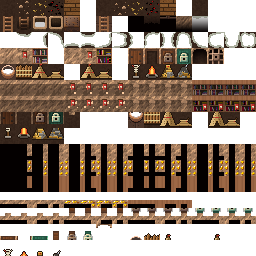
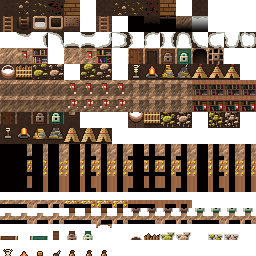
놀 제국: 천막을 긴 풀과 분리(캠프의 천막만 천막 그림·이름, 나머지 풀숲은 원작 그대로), 방책·토템·모닥불·고철 더미 위에 동굴 장식이 겹쳐 그려져 잘려 보이던 문제 수정
Claude-Session: https://claude.ai/code/session_01APSKFNB8xpLfNtbCfNBsyA

diff --git a/core/src/main/java/com/shatteredpixel/shatteredpixeldungeon/levels/GnollEmpireLevel.java b/core/src/main/java/com/shatteredpixel/shatteredpixeldungeon/levels/GnollEmpireLevel.java
@@ -57,6 +57,8 @@ public class GnollEmpireLevel extends CavesLevel {
 
 	//망루 칸 (서 있는 쪽은 시야 +2)
 	public ArrayList<Integer> towers = new ArrayList<>();
+	//천막 칸 (긴 풀 지형, 캠프 방에만 있음)
+	public ArrayList<Integer> tents = new ArrayList<>();
 	//아직 닫혀 있는 요새 성문
 	public ArrayList<Integer> gates = new ArrayList<>();
 	//문지기가 전리품 창고 열쇠를 가지고 있는지, 이미 떨어뜨렸는지
@@ -164,6 +166,7 @@ public class GnollEmpireLevel extends CavesLevel {
 			} else if (r instanceof GnollCampRoom){
 				if (addProp( new WarDrum(), ((GnollCampRoom) r).drum )) drums++;
 				addProp( GnollCage.random(), ((GnollCampRoom) r).cage );
+				tents.addAll( ((GnollCampRoom) r).tents );
 			} else if (r instanceof ScrapWorkshopRoom){
 				for (int c : ((ScrapWorkshopRoom) r).barricades){
 					addProp( new ScrapBarricade(), c );
@@ -392,6 +395,7 @@ public class GnollEmpireLevel extends CavesLevel {
 
 	// ── 저장 ──
 
+	private static final String TENTS = "tents";
 	private static final String TOWERS = "towers";
 	private static final String GATES = "gates";
 	private static final String KEY_HELD = "key_held";
@@ -405,6 +409,9 @@ public class GnollEmpireLevel extends CavesLevel {
 		int[] t = new int[towers.size()];
 		for (int i = 0; i < t.length; i++) t[i] = towers.get( i );
 		bundle.put( TOWERS, t );
+		int[] tn = new int[tents.size()];
+		for (int i = 0; i < tn.length; i++) tn[i] = tents.get( i );
+		bundle.put( TENTS, tn );
 		int[] g = new int[gates.size()];
 		for (int i = 0; i < g.length; i++) g[i] = gates.get( i );
 		bundle.put( GATES, g );
@@ -419,6 +426,8 @@ public class GnollEmpireLevel extends CavesLevel {
 		//성문 목록을 먼저 읽어 두어야 지형 판정(buildFlagMaps)에 반영됨
 		towers.clear();
 		gates.clear();
+		tents.clear();
+		if (bundle.contains( TENTS )) for (int t : bundle.getIntArray( TENTS )) tents.add( t );
 		if (bundle.contains( TOWERS )) for (int t : bundle.getIntArray( TOWERS )) towers.add( t );
 		if (bundle.contains( GATES )) for (int g : bundle.getIntArray( GATES )) gates.add( g );
 		keyHeld = bundle.getBoolean( KEY_HELD );

diff --git a/core/src/main/java/com/shatteredpixel/shatteredpixeldungeon/levels/GnollEmpire.java b/core/src/main/java/com/shatteredpixel/shatteredpixeldungeon/levels/GnollEmpire.java
@@ -64,6 +64,13 @@ public class GnollEmpire {
 				|| ch instanceof GnollGuard || ch instanceof GnollSapper || ch instanceof GnollGeomancer;
 	}
 
+	//천막 칸인지 (긴 풀 지형이지만 천막으로 그리고 부름)
+	public static boolean isTent( int pos ){
+		Level l = Dungeon.level;
+		return l instanceof GnollEmpireLevel && pos >= 0 && pos < l.length()
+				&& l.map[pos] == Terrain.HIGH_GRASS && ((GnollEmpireLevel) l).tents.contains( pos );
+	}
+
 	//pos에서 가장 가까운, 아직 멀쩡한 경보 북 (range칸 안)
 	public static WarDrum nearestDrum( int pos, int range ){
 		if (Dungeon.level == null) return null;
@@ -147,9 +154,6 @@ public class GnollEmpire {
 	public static String tileName( int tile ){
 		switch (tile){
 			case Terrain.BARRICADE:      return Messages.get( GnollEmpire.class, "palisade_name" );
-			case Terrain.HIGH_GRASS:     return Messages.get( GnollEmpire.class, "tent_name" );
-			case Terrain.FURROWED_GRASS: return Messages.get( GnollEmpire.class, "tent_name" );
-			case Terrain.GRASS:          return Messages.get( GnollEmpire.class, "straw_name" );
 			case Terrain.STATUE:         return Messages.get( GnollEmpire.class, "totem_name" );
 			case Terrain.STATUE_SP:      return Messages.get( GnollEmpire.class, "fire_name" );
 			case Terrain.REGION_DECO:
@@ -163,8 +167,6 @@ public class GnollEmpire {
 	public static String tileDesc( int tile ){
 		switch (tile){
 			case Terrain.BARRICADE:      return Messages.get( GnollEmpire.class, "palisade_desc" );
-			case Terrain.HIGH_GRASS:     return Messages.get( GnollEmpire.class, "tent_desc" );
-			case Terrain.FURROWED_GRASS: return Messages.get( GnollEmpire.class, "tent_desc" );
 			case Terrain.STATUE:         return Messages.get( GnollEmpire.class, "totem_desc" );
 			case Terrain.STATUE_SP:      return Messages.get( GnollEmpire.class, "fire_desc" );
 			case Terrain.REGION_DECO:

diff --git a/core/src/main/java/com/shatteredpixel/shatteredpixeldungeon/windows/WndInfoCell.java b/core/src/main/java/com/shatteredpixel/shatteredpixeldungeon/windows/WndInfoCell.java
@@ -113,6 +113,8 @@ public class WndInfoCell extends Window {
 
 		if (customTile != null && customTile.name(x, y) != null){
 			return customTile.name(x, y);
+		} else if (com.shatteredpixel.shatteredpixeldungeon.levels.GnollEmpire.isTent(cell)){
+			return com.shatteredpixel.shatteredpixeldungeon.messages.Messages.get(com.shatteredpixel.shatteredpixeldungeon.levels.GnollEmpire.class, "tent_name");
 		} else {
 			return Dungeon.level.tileName(Dungeon.level.map[cell]);
 		}
@@ -162,6 +164,8 @@ public class WndInfoCell extends Window {
 				desc += Dungeon.level.tileDesc(Dungeon.level.map[cell]);
 			}
 
+		} else if (com.shatteredpixel.shatteredpixeldungeon.levels.GnollEmpire.isTent(cell)){
+			desc += com.shatteredpixel.shatteredpixeldungeon.messages.Messages.get(com.shatteredpixel.shatteredpixeldungeon.levels.GnollEmpire.class, "tent_desc");
 		} else {
 
 			desc += Dungeon.level.tileDesc(Dungeon.level.map[cell]);

diff --git a/core/src/main/java/com/shatteredpixel/shatteredpixeldungeon/levels/rooms/gnoll/GnollCampRoom.java b/core/src/main/java/com/shatteredpixel/shatteredpixeldungeon/levels/rooms/gnoll/GnollCampRoom.java
@@ -26,6 +26,7 @@ public class GnollCampRoom extends StandardRoom {
 
 	public int drum = -1;
 	public int cage = -1;
+	public java.util.ArrayList<Integer> tents = new java.util.ArrayList<>();
 	private int fire = -1;
 
 	@Override
@@ -45,6 +46,7 @@ public class GnollCampRoom extends StandardRoom {
 
 	@Override
 	public void paint( Level level ) {
+		tents.clear();
 		Painter.fill( level, this, Terrain.WALL );
 		//방 안쪽 첫 줄은 방책, 그 안은 캠프
 		Painter.fill( level, this, 1, Terrain.BARRICADE );
@@ -84,6 +86,8 @@ public class GnollCampRoom extends StandardRoom {
 			if (nearGap( level, p ) || nearGap( level, second )) continue;
 			Painter.set( level, p, Terrain.HIGH_GRASS );
 			Painter.set( level, second, Terrain.HIGH_GRASS );
+			tents.add( level.pointToCell( p ) );
+			tents.add( level.pointToCell( second ) );
 			tents--;
 		}
 

diff --git a/core/src/main/java/com/shatteredpixel/shatteredpixeldungeon/tiles/TerrainFeaturesTilemap.java b/core/src/main/java/com/shatteredpixel/shatteredpixeldungeon/tiles/TerrainFeaturesTilemap.java
@@ -79,6 +79,15 @@ public class TerrainFeaturesTilemap extends DungeonTilemap {
 			return -1;
 		}
 
+		//모드: 놀 제국은 방책·토템·모닥불·고철 더미·천막을 자체 타일에 그려 두었으므로 동굴 장식을 겹치지 않음 (풀은 그대로)
+		if (com.shatteredpixel.shatteredpixeldungeon.levels.GnollEmpire.isEmpireLevel(Dungeon.level)){
+			if (tile == Terrain.BARRICADE || tile == Terrain.STATUE || tile == Terrain.STATUE_SP
+					|| tile == Terrain.REGION_DECO || tile == Terrain.REGION_DECO_ALT
+					|| (tile == Terrain.HIGH_GRASS && com.shatteredpixel.shatteredpixeldungeon.levels.GnollEmpire.isTent(pos))){
+				return -1;
+			}
+		}
+
 		int stage = (Dungeon.depth-1)/5;
 		if (Dungeon.depth == 21 && Dungeon.level instanceof LastShopLevel) stage--;
 		stage = Math.min(stage, 4);

diff --git a/core/src/main/java/com/shatteredpixel/shatteredpixeldungeon/tiles/DungeonWallsTilemap.java b/core/src/main/java/com/shatteredpixel/shatteredpixeldungeon/tiles/DungeonWallsTilemap.java
@@ -110,6 +110,9 @@ public class DungeonWallsTilemap extends DungeonTilemap {
 			return DungeonTileSheet.ALCHEMY_POT_OVERHANG;
 		} else if (pos + mapWidth < size && map[pos+mapWidth] == Terrain.BARRICADE){
 			return DungeonTileSheet.BARRICADE_OVERHANG;
+		} else if (pos + mapWidth < size && map[pos+mapWidth] == Terrain.HIGH_GRASS
+				&& com.shatteredpixel.shatteredpixeldungeon.levels.GnollEmpire.isTent(pos + mapWidth)){
+			return DungeonTileSheet.getVisualWithAlts(DungeonTileSheet.MINE_BOULDER_OVERHANG, pos + mapWidth);
 		} else if (pos + mapWidth < size && map[pos+mapWidth] == Terrain.HIGH_GRASS){
 			return DungeonTileSheet.getVisualWithAlts(DungeonTileSheet.HIGH_GRASS_OVERHANG, pos + mapWidth);
 		} else if (pos + mapWidth < size && map[pos+mapWidth] == Terrain.FURROWED_GRASS){

diff --git a/core/src/main/java/com/shatteredpixel/shatteredpixeldungeon/tiles/DungeonTerrainTilemap.java b/core/src/main/java/com/shatteredpixel/shatteredpixeldungeon/tiles/DungeonTerrainTilemap.java
@@ -66,6 +66,11 @@ public class DungeonTerrainTilemap extends DungeonTilemap {
 			return DungeonTileSheet.stitchChasmTile( pos > mapWidth ? map[pos - mapWidth] : -1);
 		}
 
+		//모드: 놀 제국 천막 (긴 풀 칸이지만 따로 그림)
+		if (tile == Terrain.HIGH_GRASS && com.shatteredpixel.shatteredpixeldungeon.levels.GnollEmpire.isTent(pos)){
+			return DungeonTileSheet.getVisualWithAlts(flat ? DungeonTileSheet.FLAT_MINE_BOULDER : DungeonTileSheet.RAISED_MINE_BOULDER, pos);
+		}
+
 		if (!flat) {
 			if ((DungeonTileSheet.doorTile(tile))) {
 				return DungeonTileSheet.getRaisedDoorTile(tile, map[pos - mapWidth]);
